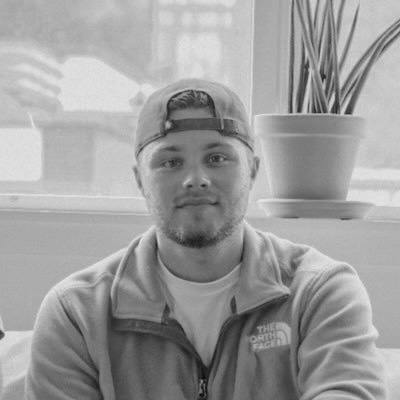
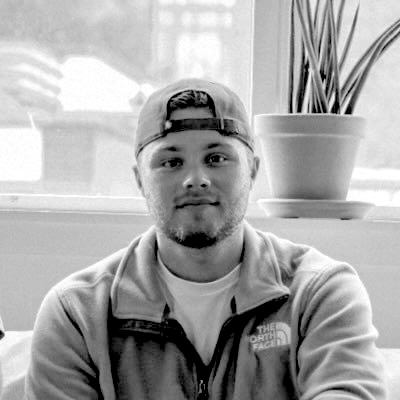
image adjustments (profile pic)

diff --git a/src/app/page.tsx b/src/app/page.tsx
@@ -31,7 +31,7 @@ export default function Home() {
       </div>
       <div className="ml-4 md:ml-64 mt-0 flex-shrink-0 w-[100px] h-[100px] border-2 border-slate-300 relative">
         <Image
-          src="/david.profile  copy.jpeg"
+          src="/BW-david.profile  copy.jpeg"
           alt="Profile Picture"
           layout="fill"
           style={{ objectFit: 'cover', width: '100%', height: '100%' }}
